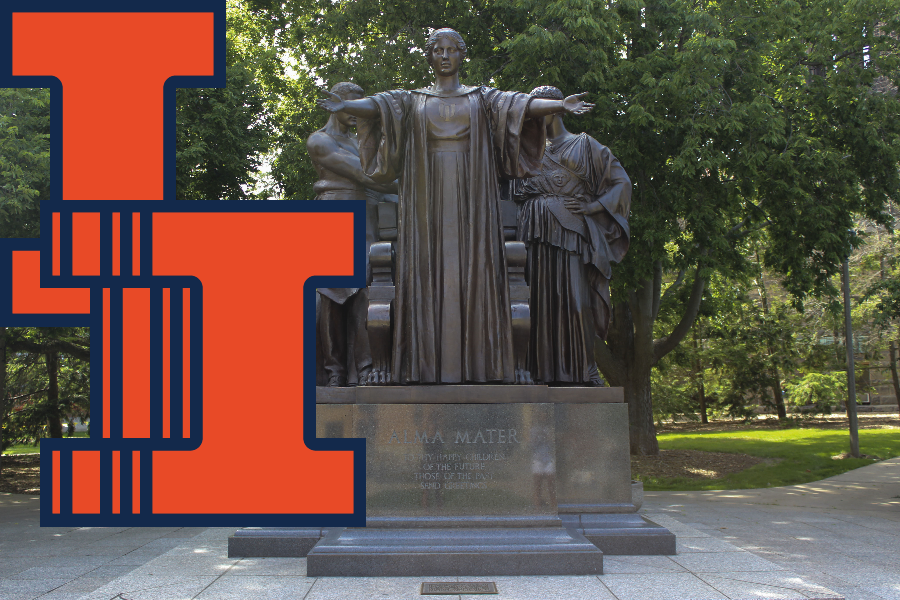
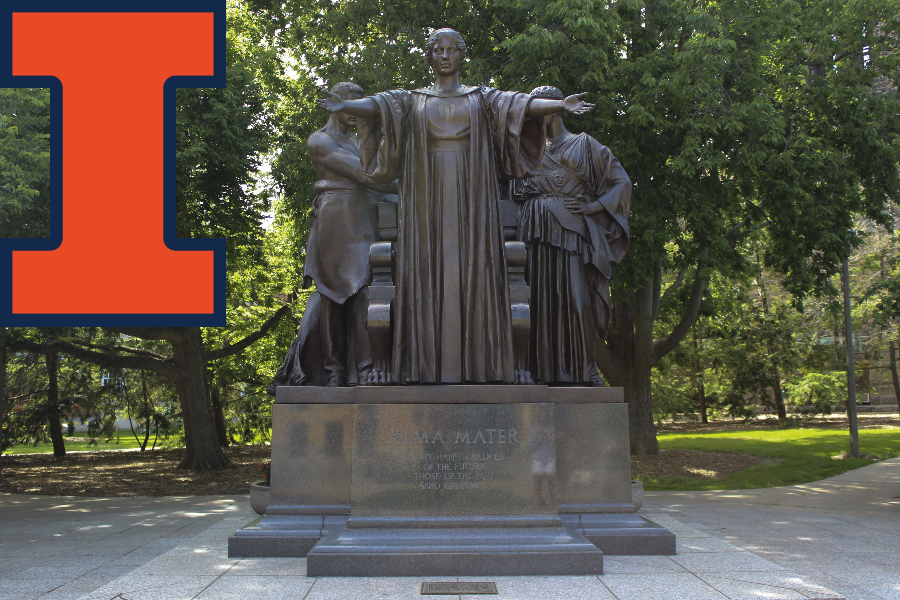
fixed copy constructor??

Changed region(s): [[0.0311, 0.33, 0.4044, 0.9]]

diff --git a/mp_stickers/entry/sticker.cpp b/mp_stickers/entry/sticker.cpp
@@ -5,32 +5,21 @@ using namespace std;
 
 int main() {
 
-Image alma;     alma.readFromFile("../data/alma.png");
-  Image i;        i.readFromFile("../data/i.png");
-  Image expected; expected.readFromFile("../data/expected-3.png");
-
-  StickerSheet sheet(alma);
-  sheet.addSticker(i, 20, 200);
-  sheet.addSticker(i, 40, 200);
-  sheet.addSticker(i, 60, 200);
-  sheet.addSticker(i, 80, 200);
-  sheet.addSticker(i, 100, 200);
-  sheet.addSticker(i, 120, 200);
-  sheet.addSticker(i, 140, 200);
-  sheet.removeSticker(3);
-  sheet.translate(0, 0, 0);
 
 
-  // Image alma;
-  // alma.readFromFile("../data/alma.png");
-  // // std::cout << alma.width() << ' ' << alma.height();
-  // StickerSheet alma_sheet(alma);
+
+  Image alma;
+  alma.readFromFile("../data/alma.png");
+  StickerSheet alma_sheet(alma);
 
 
-  // // adding a sticker
-  // Image blockI;
-  // blockI.readFromFile("../data/i.png");
-  // alma_sheet.addSticker(blockI, 0,0);
+  // adding a sticker
+  Image blockI;
+  blockI.readFromFile("../data/i.png");
+  alma_sheet.addSticker(blockI, 0,0);
+
+    cout << &blockI << endl;
+    cout << alma_sheet.getSticker(0) << endl;
 
 
   // Image penguin;
@@ -47,7 +36,7 @@ Image alma;     alma.readFromFile("../data/alma.png");
   // alma_sheet_2.translate(0, 500, 250);
 
 
-  sheet.render().writeToFile("../data/image1.png");
+  alma_sheet.render().writeToFile("../data/image1.png");
   // alma_sheet_2.render().writeToFile("image2.png");
 
 

diff --git a/mp_stickers/src/StickerSheet.cpp b/mp_stickers/src/StickerSheet.cpp
@@ -10,18 +10,15 @@ StickerSheet::StickerSheet(const Image& picture) {
 
 
 StickerSheet::StickerSheet(StickerSheet& other) {
-    if (base_img != nullptr) 
-        base_img = new Image(*(other.base_img));
-    else
-        base_img = nullptr;
+    base_img = (other.base_img != nullptr) ? new Image(*(other.base_img)) : nullptr;
+
+    stickers.resize(other.stickers.size(), nullptr);
 
     for (unsigned i = 0; i < other.stickers.size(); i++) {
-        if (other.stickers[i] == nullptr)
-            stickers[i] = nullptr;
-
-        stickers[i] = new Image(*(other.stickers[i]));
+        if (other.stickers[i] != nullptr) {
+            stickers[i] = new Image(*(other.stickers[i]));
+        }
     }
-
     x_coords = other.x_coords;
     y_coords = other.y_coords;
 }
